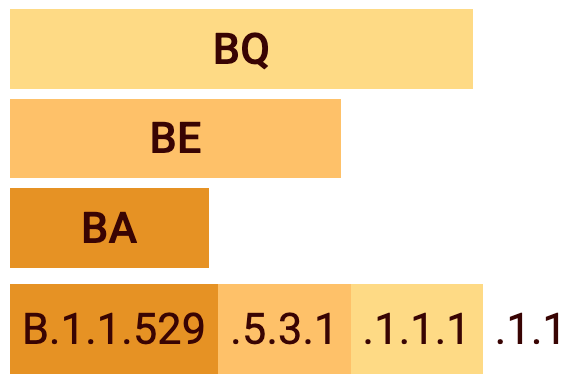
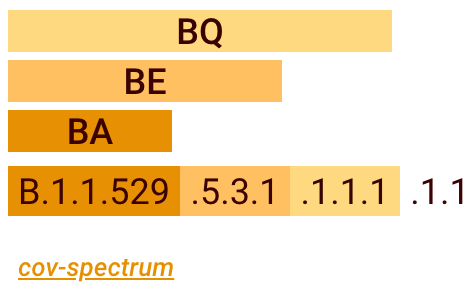
update README to include recent changes

diff --git a/README.md b/README.md
@@ -87,7 +87,9 @@ as
 Lastly, a [gt table](https://gt.rstudio.com/) is put together with
 nested [spanner column
 labels](https://gt.rstudio.com/reference/tab_spanner.html) for each
-alias.
+alias and a direct link to
+[cov-spectrum](https://cov-spectrum.org/explore/Switzerland/AllSamples/Past6M)
+as footnote where one can find more details about the selected lineage.
 
 ``` r
 create_pango_lineage_table(pango_lineage_full_tibble, color_vector)
